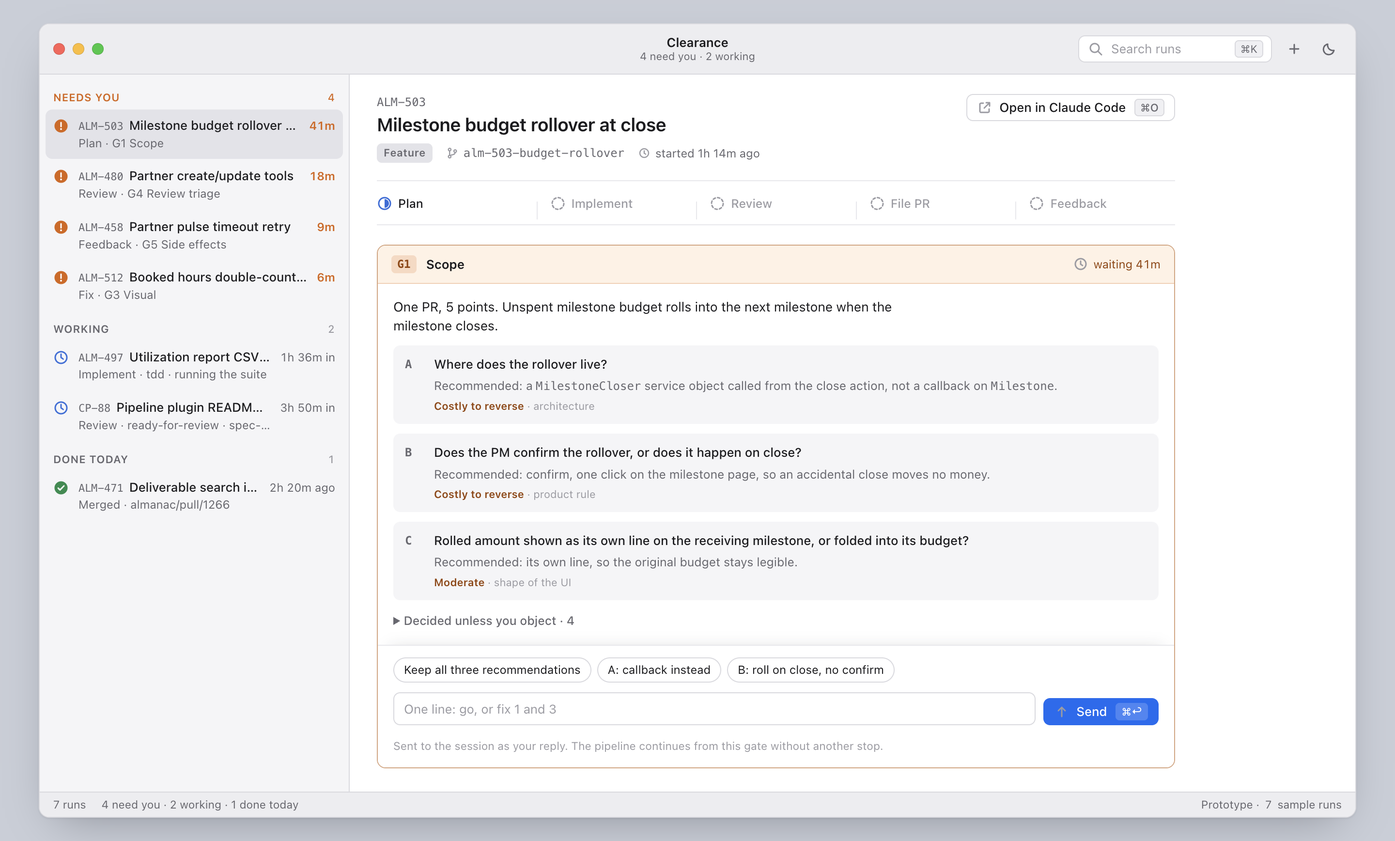
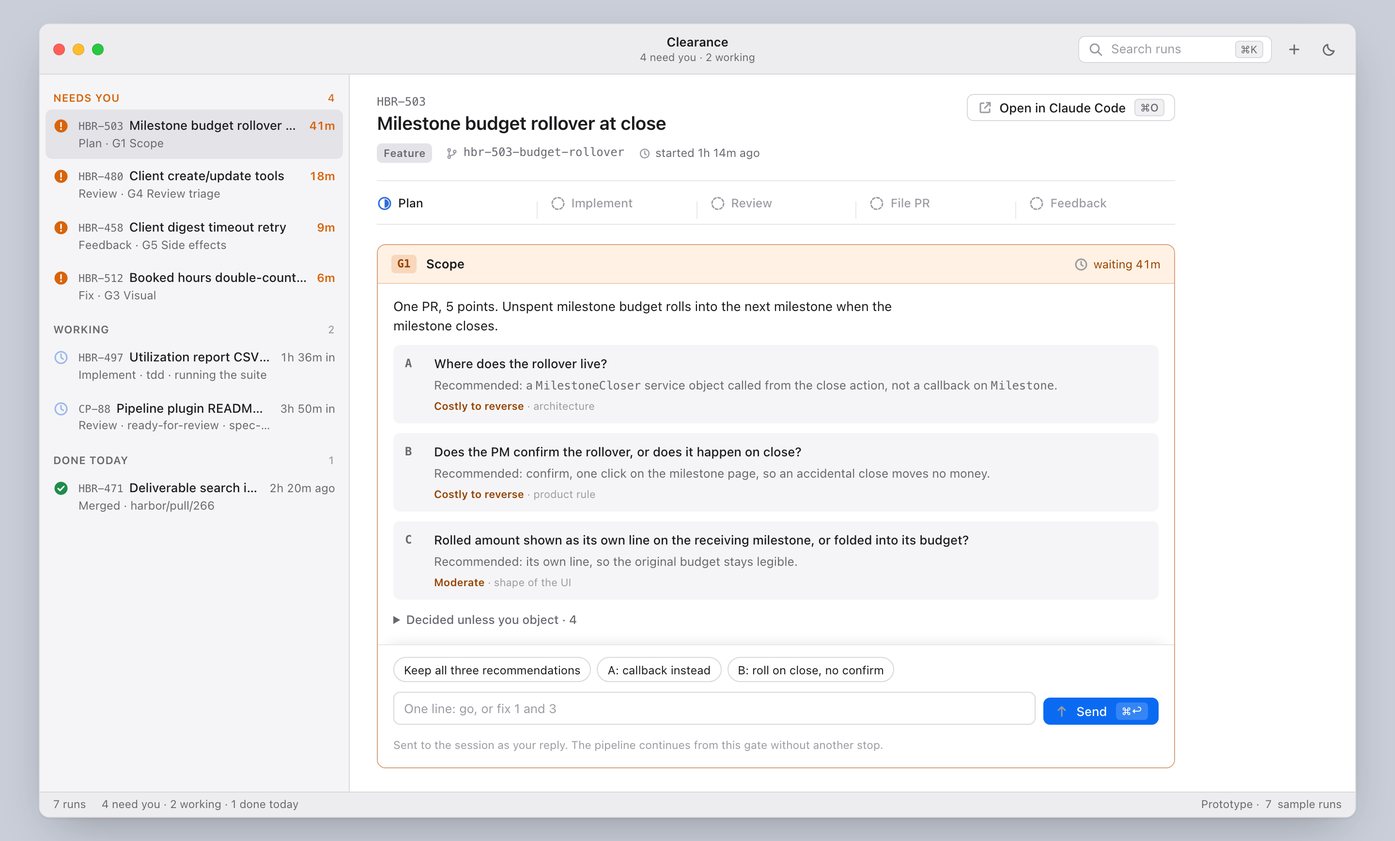
Use a fictional app for sample data and reshoot
The prototype's sample runs, the New Run placeholder, code comments, and
test fixtures were drawn from a real internal app: its repository names,
issue keys, and PR numbers. They now come from Harbor, a made-up
time-tracking and invoicing app (acme/harbor, HBR keys). The runs keep
their shapes and gates, so every state the prototype shows is unchanged.

The README screenshot is reshot from the prototype at the same framing,
1440 × 868 @2x in light mode.

diff --git a/clearance.html b/clearance.html
@@ -434,7 +434,7 @@ blockquote { margin: 0 0 10px; padding: 10px 14px; color: var(--fg); background:
           <span class="err" id="nr-err" hidden></span>
         </div>
         <div class="f"><span class="lbl" id="nr-kind-label">Kind</span><div class="seg" role="group" aria-labelledby="nr-kind-label"><button type="button" data-kind="feature" aria-pressed="true">Feature</button><button type="button" data-kind="bug" aria-pressed="false">Bug</button></div></div>
-        <div class="f"><label for="nr-repo">Repository</label><select id="nr-repo"><option>RoleModel/almanac</option><option>RoleModel/claude-plugins</option><option>RoleModel/tassel</option></select></div>
+        <div class="f"><label for="nr-repo">Repository</label><select id="nr-repo"><option>acme/harbor</option><option>mark-kraemer/clearance</option><option>acme/harbor-mobile</option></select></div>
         <div class="f"><span class="lbl">Worktree</span><span class="derived" id="nr-branch"></span></div>
         <div class="f"><span class="lbl">Runs</span><code class="cmd" id="nr-cmd"></code></div>
         <div class="f"><span class="lbl"></span><label class="check"><input type="checkbox" id="nr-open">Open in Claude Code when it starts</label></div>
@@ -474,35 +474,35 @@ blockquote { margin: 0 0 10px; padding: 10px 14px; color: var(--fg); background:
   /* All runs below are synthetic example data for the prototype. */
   const SEED_RUNS = [
     {
-      id: 'alm-503', key: 'ALM-503', title: 'Milestone budget rollover at close', kind: 'feature', branch: 'alm-503-budget-rollover',
+      id: 'hbr-503', key: 'HBR-503', title: 'Milestone budget rollover at close', kind: 'feature', branch: 'hbr-503-budget-rollover',
       started: minsAgo(74), stages: stages('feature', { plan: 'active' }),
       gate: { id: 'G1', since: minsAgo(41), summary: 'One PR, 5 pts · three questions', kind: 'scope' },
-      history: [['Started', 'feature pipeline, worktree alm-503-budget-rollover']],
+      history: [['Started', 'feature pipeline, worktree hbr-503-budget-rollover']],
     },
     {
-      id: 'alm-480', key: 'ALM-480', title: 'Partner create/update tools', kind: 'feature', branch: 'alm-480-partner-tools',
+      id: 'hbr-480', key: 'HBR-480', title: 'Client create/update tools', kind: 'feature', branch: 'hbr-480-client-tools',
       started: minsAgo(190), stages: stages('feature', { plan: 'done', implement: 'done', review: 'active' }, { plan: 'One PR, 3 pts · G2: go', implement: '18 specs green · 4 commits' }),
       gate: { id: 'G4', since: minsAgo(18), summary: '3 findings · 2 fix, 1 ask', kind: 'triage' },
-      history: [['Started', 'feature pipeline, worktree alm-480-partner-tools'], ['G1', 'one PR, 3 pts, two questions answered'], ['G2', 'go'], ['Implement', '18 specs green, 4 commits']],
+      history: [['Started', 'feature pipeline, worktree hbr-480-client-tools'], ['G1', 'one PR, 3 pts, two questions answered'], ['G2', 'go'], ['Implement', '18 specs green, 4 commits']],
     },
     {
-      id: 'alm-458', key: 'ALM-458', title: 'Partner pulse timeout retry', kind: 'bug', branch: 'alm-458-pulse-retry',
-      started: minsAgo(1440 + 130), stages: stages('bug', { implement: 'done', review: 'done', pr: 'done', feedback: 'active' }, { implement: 'Regression spec red → green', review: 'G4: clean', pr: 'github.com/RoleModel/almanac/pull/1271' }),
+      id: 'hbr-458', key: 'HBR-458', title: 'Client digest timeout retry', kind: 'bug', branch: 'hbr-458-digest-retry',
+      started: minsAgo(1440 + 130), stages: stages('bug', { implement: 'done', review: 'done', pr: 'done', feedback: 'active' }, { implement: 'Regression spec red → green', review: 'G4: clean', pr: 'github.com/acme/harbor/pull/271' }),
       gate: { id: 'G5', since: minsAgo(9), summary: 'Reply to the reviewer in your name', kind: 'side' },
-      history: [['Started', 'bug pipeline'], ['Fix', 'regression spec red then green'], ['G4', 'clean'], ['File PR', 'almanac#1271'], ['Feedback', 'the reviewer left 1 comment on the timeout']],
+      history: [['Started', 'bug pipeline'], ['Fix', 'regression spec red then green'], ['G4', 'clean'], ['File PR', 'harbor#271'], ['Feedback', 'the reviewer left 1 comment on the timeout']],
     },
     {
-      id: 'alm-512', key: 'ALM-512', title: 'Booked hours double-count PTO', kind: 'bug', branch: 'alm-512-booked-pto',
+      id: 'hbr-512', key: 'HBR-512', title: 'Booked hours double-count PTO', kind: 'bug', branch: 'hbr-512-booked-pto',
       started: minsAgo(52), stages: stages('bug', { implement: 'active' }, { implement: 'Regression spec red → green · 2 commits' }),
       gate: { id: 'G3', since: minsAgo(6), summary: 'Screenshot on dev data · 2 compromises', kind: 'visual' },
-      history: [['Started', 'bug pipeline, worktree alm-512-booked-pto'], ['Fix', 'regression spec red then green, 2 commits']],
+      history: [['Started', 'bug pipeline, worktree hbr-512-booked-pto'], ['Fix', 'regression spec red then green, 2 commits']],
     },
     {
-      id: 'alm-497', key: 'ALM-497', title: 'Utilization report CSV export', kind: 'feature', branch: 'alm-497-utilization-csv',
+      id: 'hbr-497', key: 'HBR-497', title: 'Utilization report CSV export', kind: 'feature', branch: 'hbr-497-utilization-csv',
       started: minsAgo(96), stages: stages('feature', { plan: 'done', implement: 'active' }, { plan: 'One PR, 2 pts · G2: go' }),
       gate: null, working: { label: 'tdd · running the suite', next: 'G3 if the diff touches UI, otherwise review' },
       activity: [['16:04', 'tdd · <code>utilization_export_spec.rb</code> · 14 of 18 green', true], ['16:01', 'Edit <code>app/exports/utilization_csv.rb</code>'], ['15:58', 'Commit · Export utilization as CSV, one row per person per week'], ['15:52', 'tdd · red: 4 new specs failing as expected'], ['15:40', 'G2 · go']],
-      history: [['Started', 'feature pipeline, worktree alm-497-utilization-csv'], ['G1', 'one PR, 2 pts, no questions'], ['G2', 'go']],
+      history: [['Started', 'feature pipeline, worktree hbr-497-utilization-csv'], ['G1', 'one PR, 2 pts, no questions'], ['G2', 'go']],
     },
     {
       id: 'cp-88', key: 'CP-88', title: 'Pipeline plugin README and marketplace entry', kind: 'feature', branch: 'pipeline-plugin',
@@ -512,10 +512,10 @@ blockquote { margin: 0 0 10px; padding: 10px 14px; color: var(--fg); background:
       history: [['Started', 'feature pipeline, worktree pipeline-plugin'], ['G1', 'one PR, 1 pt'], ['G2', 'go'], ['Implement', 'docs only, 2 commits']],
     },
     {
-      id: 'alm-471', key: 'ALM-471', title: 'Deliverable search ignores archived', kind: 'bug', branch: 'alm-471-archived-search',
-      started: minsAgo(1440 * 2), stages: stages('bug', { implement: 'done', review: 'done', pr: 'done', feedback: 'skipped' }, { implement: 'Regression spec red → green', review: 'G4: clean', pr: 'github.com/RoleModel/almanac/pull/1266', feedback: 'Merged without comments' }),
+      id: 'hbr-471', key: 'HBR-471', title: 'Deliverable search ignores archived', kind: 'bug', branch: 'hbr-471-archived-search',
+      started: minsAgo(1440 * 2), stages: stages('bug', { implement: 'done', review: 'done', pr: 'done', feedback: 'skipped' }, { implement: 'Regression spec red → green', review: 'G4: clean', pr: 'github.com/acme/harbor/pull/266', feedback: 'Merged without comments' }),
       gate: null, done: { label: 'Merged', when: minsAgo(140) },
-      history: [['Started', 'bug pipeline'], ['Fix', 'regression spec red then green'], ['G4', 'clean'], ['File PR', 'almanac#1266'], ['Feedback', 'skipped, merged without comments']],
+      history: [['Started', 'bug pipeline'], ['Fix', 'regression spec red then green'], ['G4', 'clean'], ['File PR', 'harbor#266'], ['Feedback', 'skipped, merged without comments']],
     },
   ];
 
@@ -557,7 +557,7 @@ blockquote { margin: 0 0 10px; padding: 10px 14px; color: var(--fg); background:
             <rect width="720" height="300" fill="var(--pane)"/>
             <rect width="720" height="36" fill="var(--list)"/><rect x="0" y="36" width="720" height="1" fill="var(--line)"/>
             <text x="20" y="23" font-family="var(--font)" font-size="13" font-weight="600" fill="var(--fg)">Booked hours · week of Oct 6</text>
-            <text x="560" y="23" font-family="var(--font)" font-size="11" fill="var(--fg-2)">Almanac · development</text>
+            <text x="560" y="23" font-family="var(--font)" font-size="11" fill="var(--fg-2)">Harbor · development</text>
             <g font-family="var(--font)" font-size="11" fill="var(--fg-2)"><text x="20" y="62">Person</text><text x="300" y="62">Booked</text><text x="400" y="62">PTO</text><text x="500" y="62">Available</text><text x="620" y="62">Total</text></g>
             <rect x="20" y="70" width="680" height="1" fill="var(--line)"/>
             <g font-family="var(--font)" font-size="12.5" fill="var(--fg)">
@@ -584,13 +584,13 @@ blockquote { margin: 0 0 10px; padding: 10px 14px; color: var(--fg); background:
     triage: {
       quick: ['Fix 1 and 2, ask 3 later', 'Fix all three', 'Fix 1, skip 2, ask 3'],
       body: () => `
-        <p class="muted">spec-review: matches ALM-480. code-review: 3 findings, each verified against the code. Nothing is fixed until you answer.</p>
+        <p class="muted">spec-review: matches HBR-480. code-review: 3 findings, each verified against the code. Nothing is fixed until you answer.</p>
         <div class="tablewrap"><table class="triage">
           <thead><tr><th>#</th><th>Finding</th><th>File</th><th>Proposed</th></tr></thead>
           <tbody>
-            <tr><td class="n">1</td><td><code>PartnerUpdateTool</code> accepts <code>company_uid</code> but never scopes the lookup to the agency, so a partner of another agency can be updated.</td><td class="file"><code>app/tools/partner_update_tool.rb:41</code></td><td><span class="verdict fix">fix</span></td></tr>
-            <tr><td class="n">2</td><td>The create spec stubs <code>Company.find_by!</code>, so the real not-found path is never exercised.</td><td class="file"><code>spec/tools/partner_create_tool_spec.rb:18</code></td><td><span class="verdict fix">fix</span></td></tr>
-            <tr><td class="n">3</td><td><code>PartnerCreateTool#call</code> returns the full partner record including <code>internal_notes</code>. The plan listed public fields only.</td><td class="file"><code>app/tools/partner_create_tool.rb:28</code></td><td><span class="verdict ask">ask<span class="why">changes behavior beyond the plan</span></span></td></tr>
+            <tr><td class="n">1</td><td><code>ClientUpdateTool</code> accepts <code>account_id</code> but never scopes the lookup to the workspace, so a client of another workspace can be updated.</td><td class="file"><code>app/tools/client_update_tool.rb:41</code></td><td><span class="verdict fix">fix</span></td></tr>
+            <tr><td class="n">2</td><td>The create spec stubs <code>Account.find_by!</code>, so the real not-found path is never exercised.</td><td class="file"><code>spec/tools/client_create_tool_spec.rb:18</code></td><td><span class="verdict fix">fix</span></td></tr>
+            <tr><td class="n">3</td><td><code>ClientCreateTool#call</code> returns the full client record including <code>internal_notes</code>. The plan listed public fields only.</td><td class="file"><code>app/tools/client_create_tool.rb:28</code></td><td><span class="verdict ask">ask<span class="why">changes behavior beyond the plan</span></span></td></tr>
           </tbody>
         </table></div>
         <p class="muted">Your answer sets the fix list. The fixes then run to the PR without another stop.</p>`,
@@ -598,8 +598,8 @@ blockquote { margin: 0 0 10px; padding: 10px 14px; color: var(--fg); background:
     side: {
       quick: ['Post it', 'Hold, I will reword'],
       body: () => `
-        <p class="lede">Reply to the reviewer's comment on <a href="https://github.com/RoleModel/almanac/pull/1271" target="_blank" rel="noopener">almanac#1271</a>, posted in your name:</p>
-        <blockquote>Kept the 30 s timeout. The retry covers the slow path, and lowering it would cut off the EU partners' first pulse of the day.</blockquote>
+        <p class="lede">Reply to the reviewer's comment on <a href="https://github.com/acme/harbor/pull/271" target="_blank" rel="noopener">harbor#271</a>, posted in your name:</p>
+        <blockquote>Kept the 30 s timeout. The retry covers the slow path, and lowering it would cut off the EU clients' first digest of the day.</blockquote>
         <p class="muted">Visible to everyone on the PR. Posts under your GitHub account. After posting, the PR is re-read before this is reported done.</p>`,
     },
     visual2: {
@@ -610,7 +610,7 @@ blockquote { margin: 0 0 10px; padding: 10px 14px; color: var(--fg); background:
             <rect width="720" height="220" fill="var(--pane)"/>
             <rect width="720" height="36" fill="var(--list)"/><rect x="0" y="36" width="720" height="1" fill="var(--line)"/>
             <text x="20" y="23" font-family="var(--font)" font-size="13" font-weight="600" fill="var(--fg)">Utilization · Q4 to date</text>
-            <text x="560" y="23" font-family="var(--font)" font-size="11" fill="var(--fg-2)">Almanac · development</text>
+            <text x="560" y="23" font-family="var(--font)" font-size="11" fill="var(--fg-2)">Harbor · development</text>
             <rect x="20" y="52" width="150" height="26" rx="6" fill="var(--pane)" stroke="var(--line)"/>
             <text x="34" y="69" font-family="var(--font)" font-size="12" fill="var(--fg)">Weeks: last 13</text>
             <rect x="590" y="52" width="110" height="26" rx="6" fill="var(--accent)"/>
@@ -721,7 +721,7 @@ blockquote { margin: 0 0 10px; padding: 10px 14px; color: var(--fg); background:
           trail = `<span class="wait">${fmtDur(now() - r.started)} in</span>`;
         } else {
           glyph = icon('done', 'ok');
-          sub = `${r.done.label} · ${esc(r.stages.find((s) => s.id === 'pr').note.replace('github.com/RoleModel/', ''))}`;
+          sub = `${r.done.label} · ${esc(r.stages.find((s) => s.id === 'pr').note.replace('github.com/acme/', ''))}`;
           trail = `<span class="wait">${fmtDur(now() - r.done.when)} ago</span>`;
         }
         html += `<button class="row ${g}" role="option" data-id="${r.id}" aria-selected="${r.id === selectedId}" tabindex="${r.id === selectedId ? 0 : -1}">
@@ -750,7 +750,7 @@ blockquote { margin: 0 0 10px; padding: 10px 14px; color: var(--fg); background:
       return;
     }
     const g = group(r);
-    const rail = r.stages.map((s) => `<div class="stage ${s.status}"><div class="s-top">${icon(STAGE_ICON[s.status], STAGE_CLS[s.status])}<span>${s.label}</span></div>${s.note ? `<div class="s-note">${s.note.startsWith('github.com') ? `<a href="https://${s.note}" target="_blank" rel="noopener">${s.note.replace('github.com/RoleModel/', '')}</a>` : esc(s.note)}</div>` : ''}</div>`).join('');
+    const rail = r.stages.map((s) => `<div class="stage ${s.status}"><div class="s-top">${icon(STAGE_ICON[s.status], STAGE_CLS[s.status])}<span>${s.label}</span></div>${s.note ? `<div class="s-note">${s.note.startsWith('github.com') ? `<a href="https://${s.note}" target="_blank" rel="noopener">${s.note.replace('github.com/acme/', '')}</a>` : esc(s.note)}</div>` : ''}</div>`).join('');
     let panel = '';
     if (g === 'needs') {
       const spec = GATES[r.gate.kind];
@@ -778,7 +778,7 @@ blockquote { margin: 0 0 10px; padding: 10px 14px; color: var(--fg); background:
       const pr = r.stages.find((s) => s.id === 'pr').note;
       panel = `<section class="panel" aria-label="Result">
         <div class="p-head">${icon('done', 'ok')}<strong>${r.done.label}</strong><span class="since">${fmtDur(now() - r.done.when)} ago</span></div>
-        <div class="p-body"><p>${r.done.text || `<a href="https://${pr}" target="_blank" rel="noopener">${pr.replace('github.com/RoleModel/', '')}</a> merged with no review comments, so the feedback stage was skipped.`}</p><p class="muted">${r.done.note || 'The worktree is kept until you clear the run.'}</p></div>
+        <div class="p-body"><p>${r.done.text || `<a href="https://${pr}" target="_blank" rel="noopener">${pr.replace('github.com/acme/', '')}</a> merged with no review comments, so the feedback stage was skipped.`}</p><p class="muted">${r.done.note || 'The worktree is kept until you clear the run.'}</p></div>
         <div class="p-foot"><span>${r.done.foot || 'Every stage closed.'}</span><button class="btn" data-clear>Clear from board</button></div>
       </section>`;
     }
@@ -864,16 +864,16 @@ blockquote { margin: 0 0 10px; padding: 10px 14px; color: var(--fg); background:
       toWorking(r, 'applying the fixes you chose', 'File PR, no stop', [[ts(), 'G4 · ' + esc(text)], [ts(), 'tdd · fixing finding 1', true]]);
       later(7000, () => {
         setStage(r, 'review', 'done', 'G4: ' + text);
-        setStage(r, 'pr', 'done', 'github.com/RoleModel/almanac/pull/1284');
+        setStage(r, 'pr', 'done', 'github.com/acme/harbor/pull/284');
         r.working = { label: 'PR open · waiting for reviewers', next: 'G5 when a reviewer comments' };
-        r.activity = [[ts(), 'gh pr create · <a href="https://github.com/RoleModel/almanac/pull/1284" target="_blank" rel="noopener">almanac#1284</a>'], ...r.activity];
-        r.history.push(['File PR', 'almanac#1284']);
+        r.activity = [[ts(), 'gh pr create · <a href="https://github.com/acme/harbor/pull/284" target="_blank" rel="noopener">harbor#284</a>'], ...r.activity];
+        r.history.push(['File PR', 'harbor#284']);
         render();
       });
     } else if (gate === 'G5') {
       setStage(r, 'feedback', 'done', '1 reply · re-read: no new comments');
       r.gate = null; r.working = null;
-      r.done = { label: 'Replied', when: now(), text: 'Reply posted on <a href="https://github.com/RoleModel/almanac/pull/1271" target="_blank" rel="noopener">almanac#1271</a>. The PR was re-read afterwards: no new comments.', foot: 'Every stage closed. Clear the run once the PR merges.' };
+      r.done = { label: 'Replied', when: now(), text: 'Reply posted on <a href="https://github.com/acme/harbor/pull/271" target="_blank" rel="noopener">harbor#271</a>. The PR was re-read afterwards: no new comments.', foot: 'Every stage closed. Clear the run once the PR merges.' };
       r.history.push(['Feedback', 'replied to the reviewer, PR re-read']);
     }
     render();
@@ -975,15 +975,15 @@ blockquote { margin: 0 0 10px; padding: 10px 14px; color: var(--fg); background:
 
   /* New run sheet */
   const ISSUES = [
-    { key: 'ALM-520', title: 'Partner pulse digest email', kind: 'feature', state: 'Todo', pts: 3 },
-    { key: 'ALM-521', title: 'Milestone close emails the PM twice', kind: 'bug', state: 'Todo', pts: 1 },
-    { key: 'ALM-515', title: 'Utilization export grouped by team', kind: 'feature', state: 'Backlog', pts: 2 },
-    { key: 'ALM-466', title: 'Deliverable search facets', kind: 'feature', state: 'In Progress', pts: 3, pr: 'github.com/RoleModel/almanac/pull/1260' },
-    { key: 'ALM-480', title: 'Partner create/update tools', kind: 'feature', state: 'In Progress', pts: 3 },
-    { key: 'TAS-204', title: 'Budget scan ignores archived milestones', kind: 'bug', state: 'Todo', pts: 2 },
+    { key: 'HBR-520', title: 'Weekly client digest email', kind: 'feature', state: 'Todo', pts: 3 },
+    { key: 'HBR-521', title: 'Milestone close emails the PM twice', kind: 'bug', state: 'Todo', pts: 1 },
+    { key: 'HBR-515', title: 'Utilization export grouped by team', kind: 'feature', state: 'Backlog', pts: 2 },
+    { key: 'HBR-466', title: 'Deliverable search facets', kind: 'feature', state: 'In Progress', pts: 3, pr: 'github.com/acme/harbor/pull/260' },
+    { key: 'HBR-480', title: 'Client create/update tools', kind: 'feature', state: 'In Progress', pts: 3 },
+    { key: 'HBM-204', title: 'Budget scan ignores archived milestones', kind: 'bug', state: 'Todo', pts: 2 },
     { key: 'CP-91', title: 'Pipeline plugin: G3 fallback without a dev server', kind: 'feature', state: 'Todo', pts: 1 },
   ];
-  const REPO_BY_PREFIX = { ALM: 'RoleModel/almanac', TAS: 'RoleModel/tassel', CP: 'RoleModel/claude-plugins' };
+  const REPO_BY_PREFIX = { HBR: 'acme/harbor', HBM: 'acme/harbor-mobile', CP: 'mark-kraemer/clearance' };
   let nrKind = 'feature', nrIssue = null, nrPick = -1, nrKindTouched = false, nrRepoTouched = false;
   const slug = (t) => t.toLowerCase().replace(/[^a-z0-9]+/g, '-').replace(/^-+|-+$/g, '').slice(0, 48).replace(/-+$/g, '');
   const parseTask = (raw) => { const m = raw.trim().match(/^([A-Za-z]{2,}-\d+)\s*(.*)$/); return m ? { key: m[1].toUpperCase(), title: m[2] || '' } : { key: null, title: raw.trim() }; };
@@ -998,7 +998,7 @@ blockquote { margin: 0 0 10px; padding: 10px 14px; color: var(--fg); background:
   function updateDerived() {
     const raw = $('nr-task').value.trim();
     const branch = slug(raw);
-    const repo = $('nr-repo').value.replace('RoleModel/', '');
+    const repo = $('nr-repo').value.split('/').pop();
     $('nr-branch').textContent = branch;
     $('nr-cmd').innerHTML = raw
       ? `~/work/${esc(repo)}/${esc(branch)} $ <b>claude</b> -p "/pipeline ${nrKind} ${esc(raw)}" --output-format stream-json`
@@ -1017,7 +1017,7 @@ blockquote { margin: 0 0 10px; padding: 10px 14px; color: var(--fg); background:
     }
     const sub = $('nr-issue');
     if (nrIssue) {
-      const short = nrIssue.pr ? nrIssue.pr.replace('github.com/RoleModel/', '').replace('/pull/', '#') : '';
+      const short = nrIssue.pr ? nrIssue.pr.replace('github.com/acme/', '').replace('/pull/', '#') : '';
       sub.textContent = `Linear · ${nrIssue.state} · ${nrIssue.pts} pt${nrIssue.pts === 1 ? '' : 's'}` + (short ? ` · open PR ${short}` : '');
     } else sub.textContent = raw && !key ? 'No Linear issue. The run is named by this title.' : '';
   }
@@ -1048,7 +1048,7 @@ blockquote { margin: 0 0 10px; padding: 10px 14px; color: var(--fg); background:
     closePalette();
     nrIssue = null; nrKindTouched = false; nrRepoTouched = false;
     $('nr-task').value = ''; $('nr-task').removeAttribute('aria-invalid'); $('nr-err').hidden = true; delete $('nr-err').dataset.keep;
-    $('nr-repo').value = 'RoleModel/almanac'; $('nr-open').checked = false;
+    $('nr-repo').value = 'acme/harbor'; $('nr-open').checked = false;
     setKind('feature');
     closePicker();
     $('sheet').hidden = false;
@@ -1083,7 +1083,7 @@ blockquote { margin: 0 0 10px; padding: 10px 14px; color: var(--fg); background:
       if (!runs.includes(r)) return;
       r.activity = r.activity.map(([a, b]) => [a, b]);
       if (issue && issue.pr) {
-        const short = issue.pr.replace('github.com/RoleModel/', '').replace('/pull/', '#');
+        const short = issue.pr.replace('github.com/acme/', '').replace('/pull/', '#');
         r.stages = r.stages.map((st) => ({ ...st, status: 'skipped', note: st.id === 'pr' ? issue.pr : '' }));
         r.working = null;
         r.done = { label: 'Already open', when: now(), text: `<a href="https://${issue.pr}" target="_blank" rel="noopener">${short}</a> is already open for ${issue.key}. The pipeline reported it and stopped; nothing was started.`, note: 'No worktree was created.', foot: 'Nothing to do here.' };
@@ -1209,7 +1209,7 @@ blockquote { margin: 0 0 10px; padding: 10px 14px; color: var(--fg); background:
   render();
   setInterval(render, 30000);
   later(28000, () => {
-    const r = byId('alm-497');
+    const r = byId('hbr-497');
     if (!r || r.gate || !r.working) return;
     setStage(r, 'implement', 'active', '18 specs green · 3 commits');
     r.activity = [[ts(), 'tdd · 18 of 18 green'], [ts(), 'Commit · Add the CSV download to the utilization report'], ...r.activity];

diff --git a/test/run.test.ts b/test/run.test.ts
@@ -7,23 +7,23 @@ import type { Gate, StoreEntry } from '../app/core/types';
 const session = {
   sessionId: 'local_07bec961-7bd9-4559-b066-c21256348928',
   cliSessionId: 'aab05bda-62eb-4dd9-845a-259e428d9d2d',
-  cwd: '/Users/me/Sites/rolemodel/almanac/.claude/worktrees/partner-create-update-mcp-3c9604',
-  originCwd: '/Users/me/Sites/rolemodel/almanac',
-  worktreePath: '/Users/me/Sites/rolemodel/almanac/.claude/worktrees/partner-create-update-mcp-3c9604',
-  worktreeName: 'partner-create-update-mcp-3c9604',
+  cwd: '/Users/me/Sites/acme/harbor/.claude/worktrees/client-create-update-mcp-3c9604',
+  originCwd: '/Users/me/Sites/acme/harbor',
+  worktreePath: '/Users/me/Sites/acme/harbor/.claude/worktrees/client-create-update-mcp-3c9604',
+  worktreeName: 'client-create-update-mcp-3c9604',
   sourceBranch: 'master',
-  branch: 'claude/partner-index-design-bb488f',
+  branch: 'claude/client-index-design-bb488f',
   createdAt: 1791903372783,
   lastActivityAt: 1791910060756,
-  title: 'Partner index design updates',
+  title: 'Client index design updates',
   isArchived: false,
-  prs: [{ prNumber: 1297, repo: 'RoleModel/almanac', url: 'https://github.com/RoleModel/almanac/pull/1297', state: 'OPEN' }],
-  postTurnSummary: { status_category: 'completed', status_detail: 'Partners tab reworked', needs_action: '' },
+  prs: [{ prNumber: 297, repo: 'acme/harbor', url: 'https://github.com/acme/harbor/pull/297', state: 'OPEN' }],
+  postTurnSummary: { status_category: 'completed', status_detail: 'Clients tab reworked', needs_action: '' },
 };
 const registry = { pid: 15660, sessionId: 'aab05bda-62eb-4dd9-845a-259e428d9d2d', status: 'idle', hostSessionId: 'local_07bec961-7bd9-4559-b066-c21256348928', updatedAt: 1791910060000 };
 const entry: StoreEntry = {
   kind: 'feature',
-  title: 'ALM-480 Partner create/update tools',
+  title: 'HBR-480 Client create/update tools',
   stages: [
     { id: 'plan', label: 'Plan', status: 'done', note: 'One PR, 3 pts · G2: go' },
     { id: 'implement', label: 'Implement', status: 'done', note: '18 specs green' },
@@ -41,14 +41,14 @@ describe('observedRun', () => {
       id: 'aab05bda-62eb-4dd9-845a-259e428d9d2d',
       source: 'observed',
       hostSessionId: 'local_07bec961-7bd9-4559-b066-c21256348928',
-      key: 'ALM-480',
-      title: 'Partner create/update tools',
+      key: 'HBR-480',
+      title: 'Client create/update tools',
       kind: 'feature',
       cwd: session.cwd,
-      worktree: 'partner-create-update-mcp-3c9604',
-      branch: 'claude/partner-index-design-bb488f',
-      repo: 'RoleModel/almanac',
-      pr: { number: 1297, url: 'https://github.com/RoleModel/almanac/pull/1297', state: 'OPEN' },
+      worktree: 'client-create-update-mcp-3c9604',
+      branch: 'claude/client-index-design-bb488f',
+      repo: 'acme/harbor',
+      pr: { number: 297, url: 'https://github.com/acme/harbor/pull/297', state: 'OPEN' },
       started: 1791903372783,
       lastActivity: 1791910060756,
     });
@@ -57,7 +57,7 @@ describe('observedRun', () => {
   it('is idle when the process is alive and idle with no gate and an open stage', () => {
     const run = observedRun({ entry, session, registry, gate: null, activity: [] });
     expect(run.status).toBe('idle');
-    expect(run.statusLabel).toBe('Partners tab reworked');
+    expect(run.statusLabel).toBe('Clients tab reworked');
   });
 
   it('needs you when a gate is open and the process is idle', () => {
@@ -86,8 +86,8 @@ describe('observedRun', () => {
   });
 
   it('falls back to the session title and no key when the store title has no issue id', () => {
-    const run = observedRun({ entry: { ...entry, title: 'Partner tools' }, session, registry, gate: null, activity: [] });
+    const run = observedRun({ entry: { ...entry, title: 'Client tools' }, session, registry, gate: null, activity: [] });
     expect(run.key).toBe('');
-    expect(run.title).toBe('Partner tools');
+    expect(run.title).toBe('Client tools');
   });
 });

diff --git a/test/stages.test.ts b/test/stages.test.ts
@@ -6,7 +6,7 @@ import { stagesFromStore } from '../app/core/stages';
 const store = {
   'run:aab05bda-62eb-4dd9-845a-259e428d9d2d': {
     kind: 'feature',
-    title: 'ALM-480 Partner create/update tools',
+    title: 'HBR-480 Client create/update tools',
     stages: [
       { id: 'plan', label: 'Plan (grilling)', status: 'done', note: 'One PR, 3 pts · G2: go' },
       { id: 'implement', label: 'Implement, test-first', status: 'done', note: '18 specs green · 4 commits' },
@@ -23,7 +23,7 @@ describe('stagesFromStore', () => {
     const entry = stagesFromStore(store, 'aab05bda-62eb-4dd9-845a-259e428d9d2d');
     expect(entry).toEqual({
       kind: 'feature',
-      title: 'ALM-480 Partner create/update tools',
+      title: 'HBR-480 Client create/update tools',
       stages: [
         { id: 'plan', label: 'Plan', status: 'done', note: 'One PR, 3 pts · G2: go' },
         { id: 'implement', label: 'Implement', status: 'done', note: '18 specs green · 4 commits' },
@@ -40,7 +40,7 @@ describe('stagesFromStore', () => {
   });
 
   it('labels a bug run’s first stage Fix', () => {
-    const bug = { 'run:b': { kind: 'bug', title: 'ALM-512 Booked hours double-count PTO', stages: [{ id: 'implement', label: 'Fix, test-first', status: 'active' }] } };
+    const bug = { 'run:b': { kind: 'bug', title: 'HBR-512 Booked hours double-count PTO', stages: [{ id: 'implement', label: 'Fix, test-first', status: 'active' }] } };
     expect(stagesFromStore(bug, 'b')?.stages[0]).toEqual({ id: 'implement', label: 'Fix', status: 'active', note: '' });
   });
 });

diff --git a/app/renderer/index.html b/app/renderer/index.html
@@ -50,7 +50,7 @@
       <h2 id="sheet-title">New run</h2>
       <form id="newrun-form" novalidate>
         <div class="f"><span class="lbl" id="nr-kind-label">Kind</span><div class="seg" role="group" aria-labelledby="nr-kind-label"><button type="button" data-kind="feature" aria-pressed="true">Feature</button><button type="button" data-kind="bug" aria-pressed="false">Bug</button></div></div>
-        <div class="f"><label for="nr-task">Task</label><input id="nr-task" type="text" placeholder="ALM-520 Partner pulse digest email" autocomplete="off" spellcheck="false"><span class="err" id="nr-err" hidden></span></div>
+        <div class="f"><label for="nr-task">Task</label><input id="nr-task" type="text" placeholder="HBR-520 Weekly client digest email" autocomplete="off" spellcheck="false"><span class="err" id="nr-err" hidden></span></div>
         <div class="f"><label for="nr-repo">Repository</label><select id="nr-repo"></select></div>
         <div class="f"><span class="lbl">Worktree</span><span class="derived" id="nr-branch"></span></div>
         <div class="f"><span class="lbl">Runs</span><code class="cmd" id="nr-cmd"></code></div>

diff --git a/test/slug.test.ts b/test/slug.test.ts
@@ -3,7 +3,7 @@ import { slug } from '../app/core/slug';
 
 describe('slug', () => {
   it('turns a task title into a worktree-safe name, issue key first', () => {
-    expect(slug('ALM-520 Partner pulse digest email')).toBe('alm-520-partner-pulse-digest-email');
+    expect(slug('HBR-520 Weekly client digest email')).toBe('hbr-520-weekly-client-digest-email');
   });
 
   it('collapses punctuation and trims dashes', () => {
@@ -11,7 +11,7 @@ describe('slug', () => {
   });
 
   it('clips to 40 characters without ending in a dash', () => {
-    const s = slug('ALM-521 Milestone close emails the project manager twice on Fridays');
+    const s = slug('HBR-521 Milestone close emails the project manager twice on Fridays');
     expect(s.length).toBeLessThanOrEqual(40);
     expect(s.endsWith('-')).toBe(false);
   });

diff --git a/test/stream.test.ts b/test/stream.test.ts
@@ -41,8 +41,8 @@ describe('reduceStream', () => {
   });
 
   it('ends idle, with no gate, when the turn ends on a plain report', () => {
-    const report = { type: 'assistant', session_id: sid, message: { id: 'm4', role: 'assistant', content: [{ type: 'text', text: 'PR opened: almanac#1284.' }] } };
-    const s = run([init, report, { ...result, result: 'PR opened: almanac#1284.' }], 'review');
+    const report = { type: 'assistant', session_id: sid, message: { id: 'm4', role: 'assistant', content: [{ type: 'text', text: 'PR opened: harbor#284.' }] } };
+    const s = run([init, report, { ...result, result: 'PR opened: harbor#284.' }], 'review');
     expect(s.turnOpen).toBe(false);
     expect(s.gate).toBeNull();
   });

diff --git a/app/core/run.ts b/app/core/run.ts
@@ -37,7 +37,7 @@ export interface ObservedInput {
 
 const ISSUE_KEY = /^([A-Z][A-Z0-9]+-\d+)\s*(.*)$/;
 
-/** Splits "ALM-480 Partner tools" into its issue key and title. */
+/** Splits "HBR-480 Client tools" into its issue key and title. */
 export function splitTitle(title: string): { key: string; title: string } {
   const m = title.trim().match(ISSUE_KEY);
   return m ? { key: m[1], title: m[2] || title.trim() } : { key: '', title: title.trim() };

diff --git a/app/main/repos.ts b/app/main/repos.ts
@@ -12,7 +12,7 @@ const CHOSEN_FILE = join(APP_SUPPORT_DIR, 'repos.json');
 export interface RepoChoice {
   /** Repository root on disk. */
   path: string;
-  /** Short label, e.g. "rolemodel/almanac". */
+  /** Short label, e.g. "acme/harbor". */
   label: string;
   /** Branch new worktrees start from. */
   baseBranch: string;

diff --git a/DESIGN.md b/DESIGN.md
@@ -211,7 +211,7 @@ A cool gray tonal stack with one system-blue accent and three semantic hues, eac
 - **Body Dense** (400, 12.5px): stage labels (500), notes, table cells, activity rows, history, panel footers, chip labels (12px), muted row subtitles (12px).
 - **Caption** (400, 11px): key caps, row numbers, timestamps, reversal costs, notification header. Captions at 11.5px appear in hints, status bar, screenshot captions, and triage "why" lines.
 - **Section Label** (600, 11px, +0.04em, uppercase): list group headers (Needs you / Working / Done today), history heading, palette group heads, triage column heads. This is the macOS sidebar section-header device, used only to label a group of items below it.
-- **Mono** (400-700, 11-12px): issue keys (`ALM-480`), gate IDs (700), branch names, activity timestamps, question letters, table row numbers.
+- **Mono** (400-700, 11-12px): issue keys (`HBR-480`), gate IDs (700), branch names, activity timestamps, question letters, table row numbers.
 
 ### Named Rules
 **The Tabular Time Rule.** Every elapsed time, waiting time, count, and timestamp sets `font-variant-numeric: tabular-nums` so columns of durations align and reflow does not jitter.
